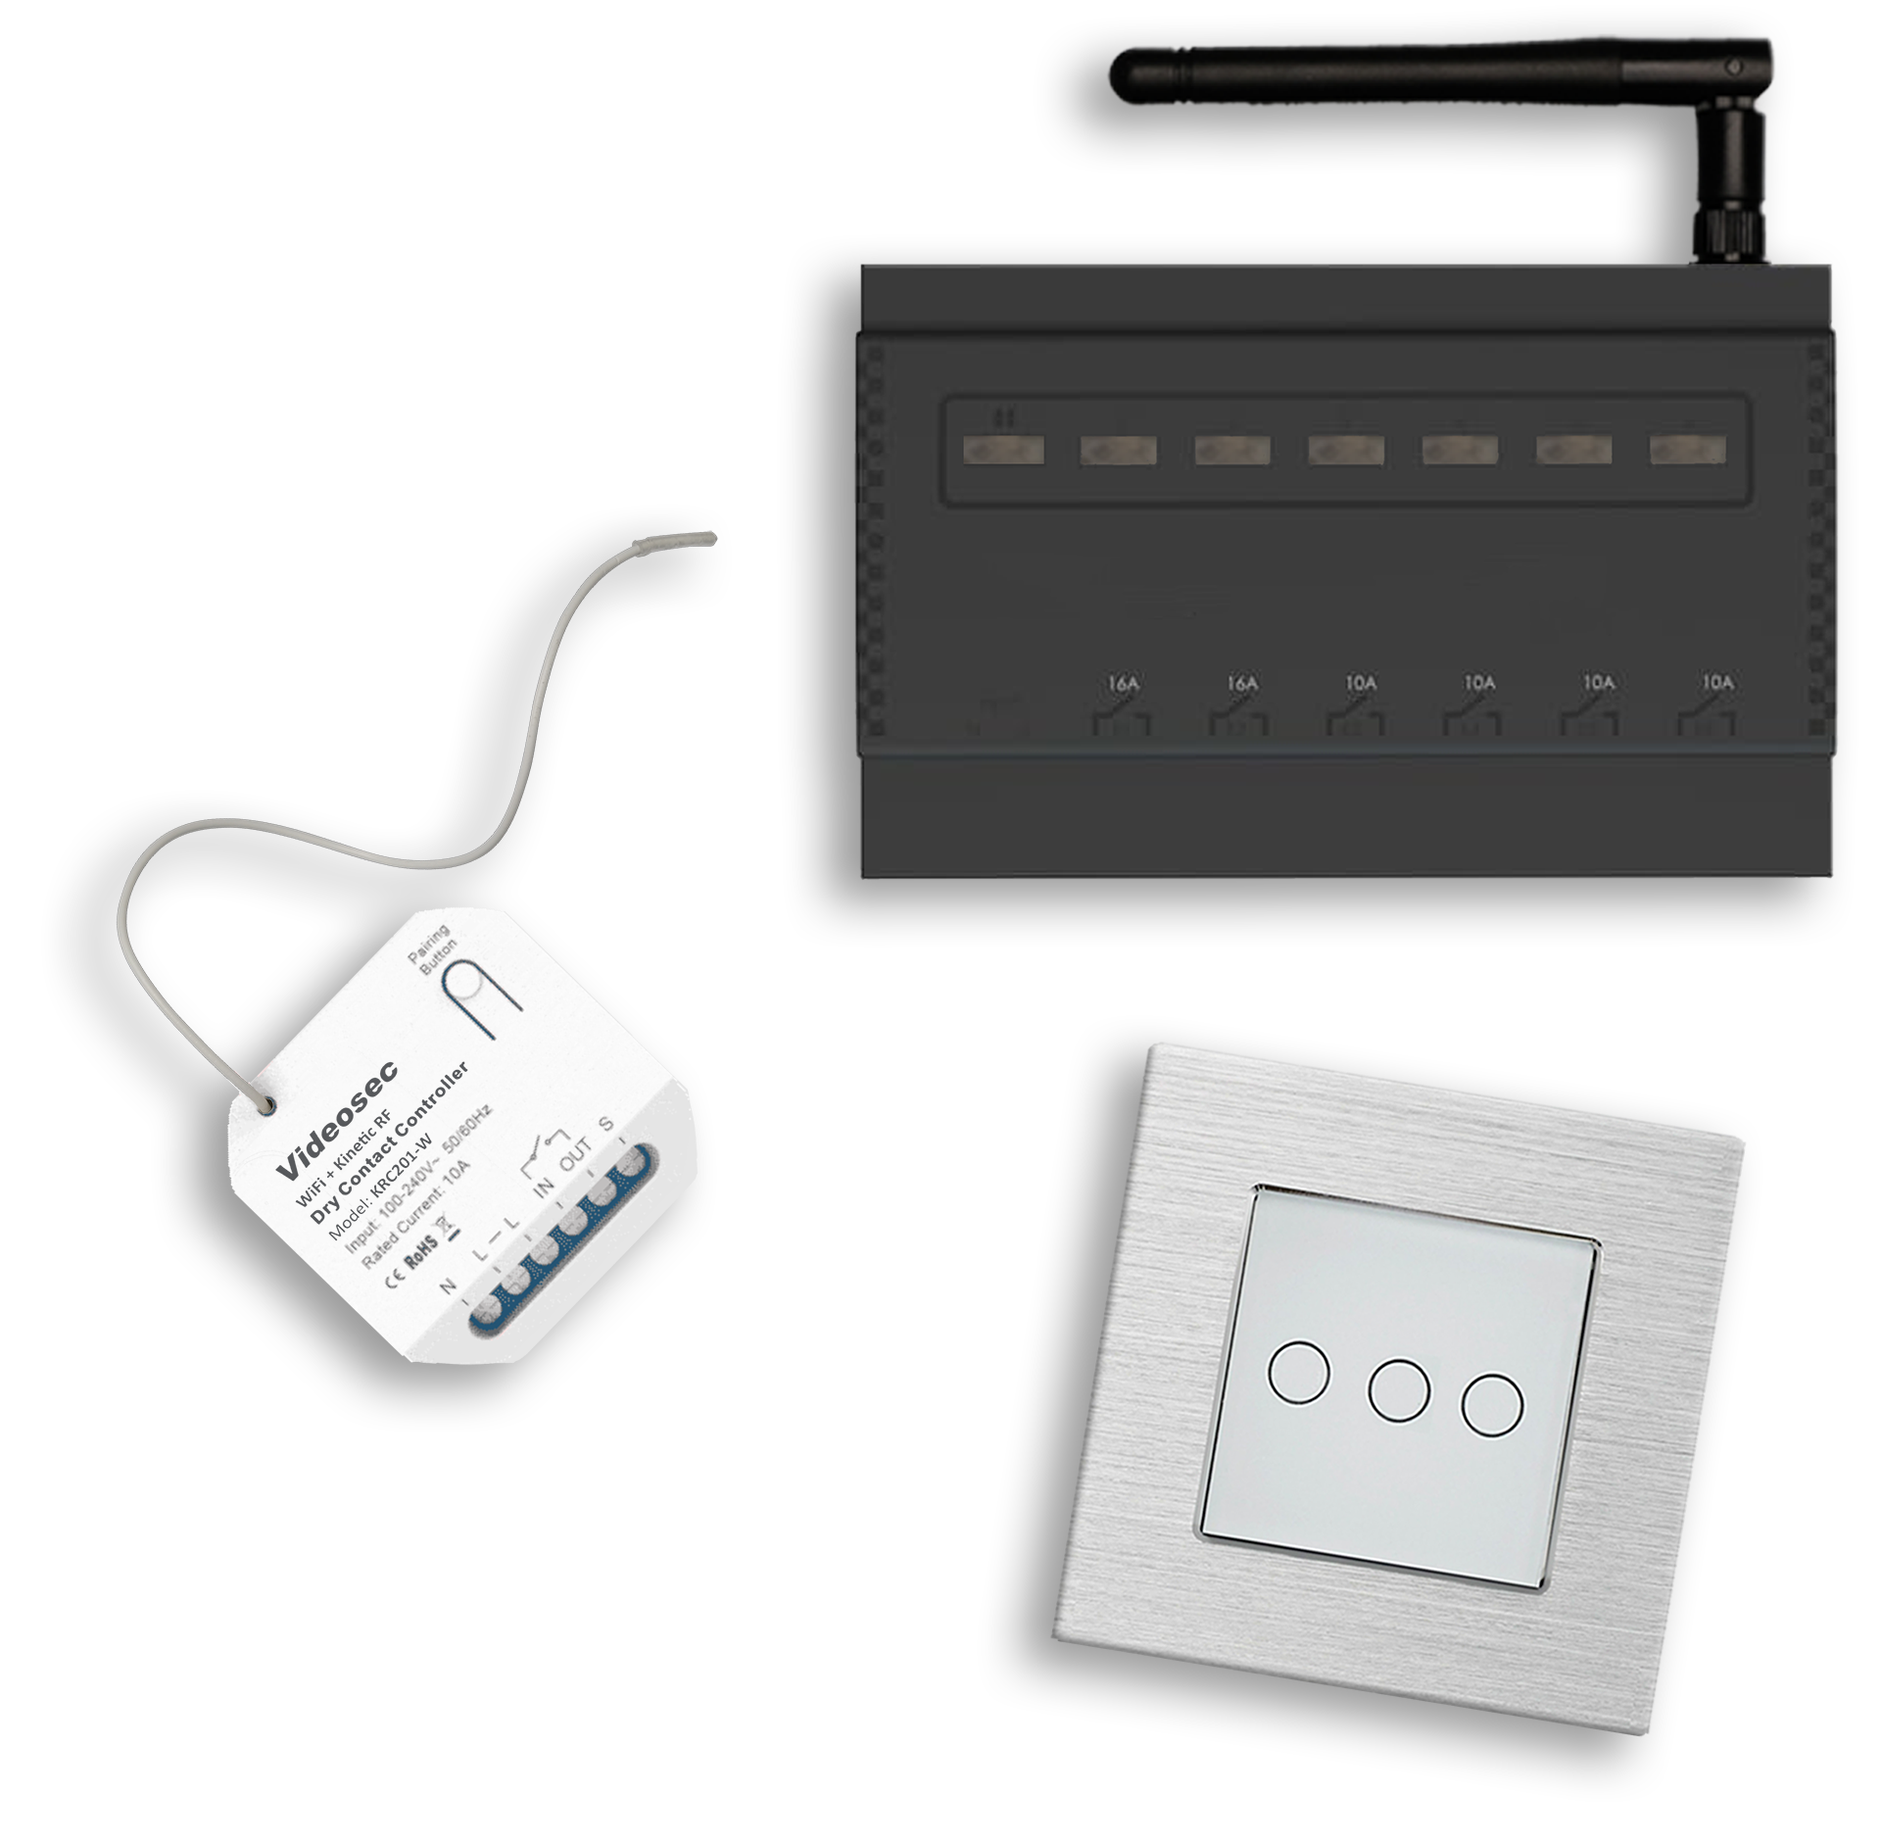
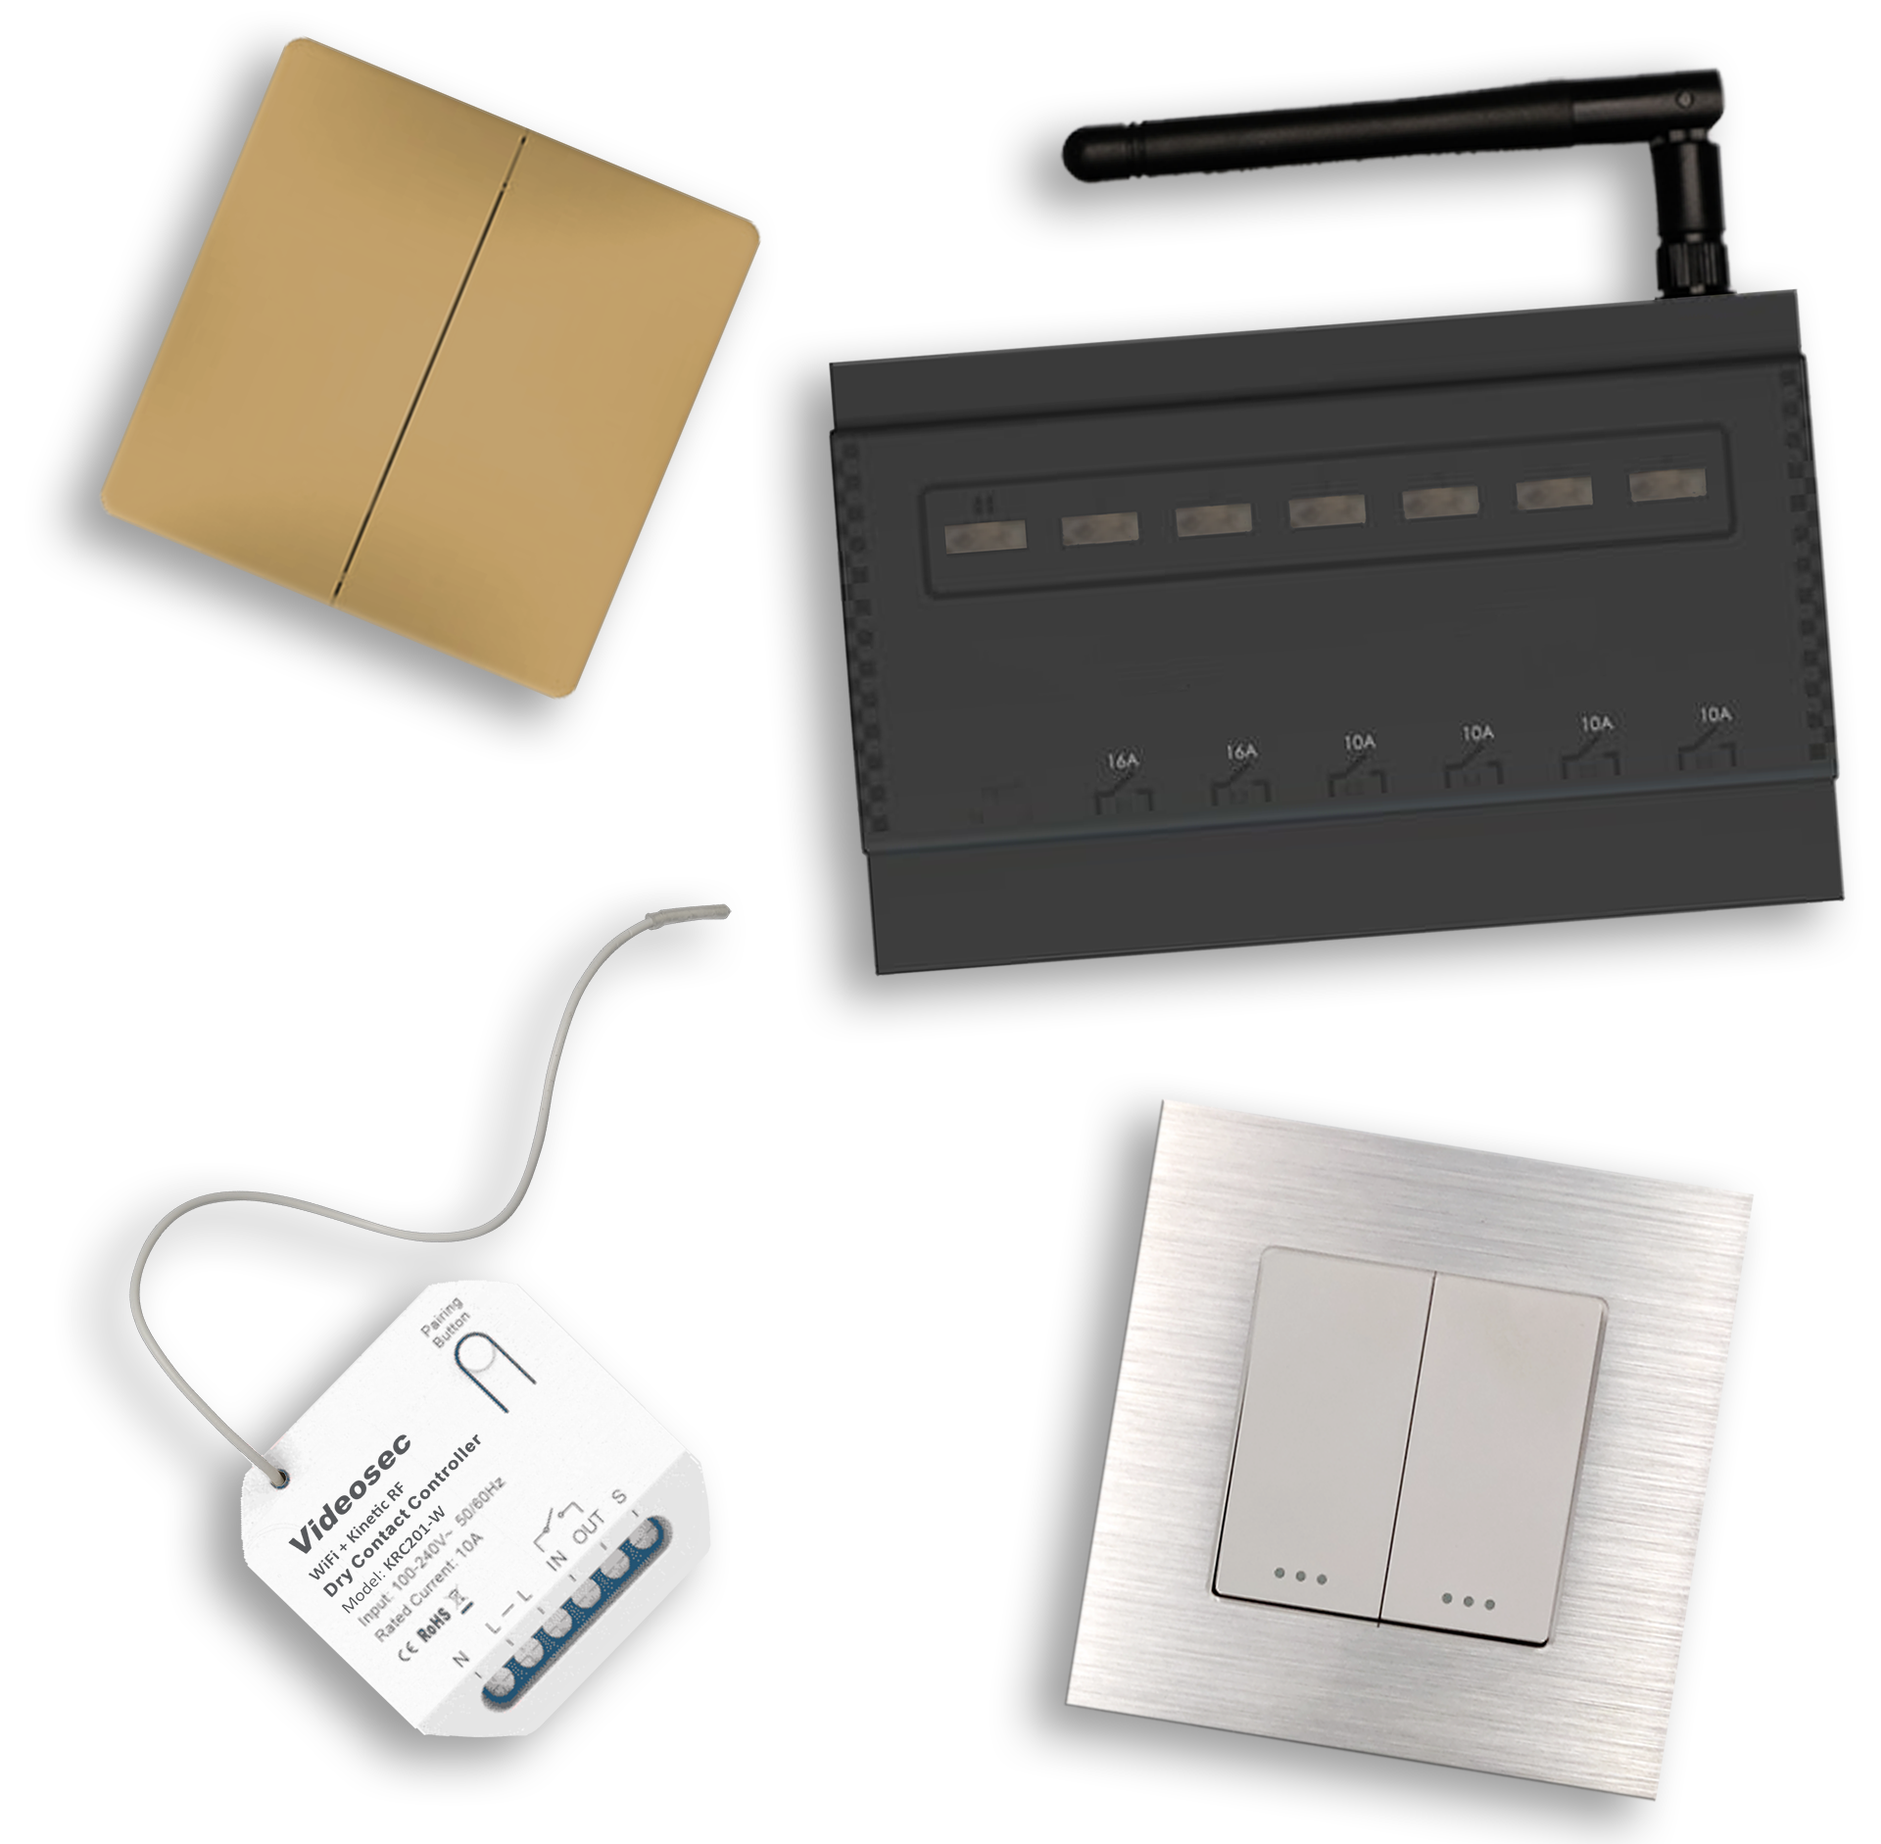
actuator chapter

diff --git a/index.html b/index.html
@@ -35,7 +35,7 @@
         <a href="#pelda5" onclick="closeNav()">Gázérzékelés</a>
         <a href="#pelda6" onclick="closeNav()">Biztonság</a>
         <a href="#pelda7" onclick="closeNav()">Kamera vezérlés</a>
-        <a href="#pelda8" onclick="closeNav()">beépített aktuátor</a>
+        <a href="#pelda8" onclick="closeNav()">Beépített aktuátor</a>
         <a href="#pelda9" onclick="closeNav()">Fagymentesítés</a>
         <p class="pt-5" style="font-size: 2vh; color: white;">Termékek:</p>
         <a href="#katalog" onclick="closeNav()">Legfrisebb termékeink</a>
@@ -60,21 +60,21 @@
         <a href="#m-pelda5" onclick="closeNav2()()">Gázérzékelés</a>
         <a href="#m-pelda6" onclick="closeNav2()()">Biztonság</a>
         <a href="#m-pelda7" onclick="closeNav2()()">Kamera vezérlés</a>
-        <a href="#m-pelda8" onclick="closeNav2()()">beépített aktuátor</a>
+        <a href="#m-pelda8" onclick="closeNav2()()">Beépített aktuátor</a>
         <a href="#m-pelda9" onclick="closeNav2()()">Fagymentesítés</a>
         <p class="pt-5" style="font-size: 2vh; color: white;">Termékek:</p>
         <a href="#m-katalog" onclick="closeNav2()()">Legfrisebb termékeink</a>
     </div>
     <div id="menu" class=" mt-2 mr-5">
-        <img id="zigbee-logo" style="width: 7vh; cursor: pointer;" class="mr-3" src="./resources/img/zigbee-logo.png" alt="zigbee-logo">
-        <img id="wifi-logo" style="width: 7vh; cursor: pointer;" class="mr-3" src="./resources/img/wifi-logo.png" alt="wifi-logo">
-        <img id="Tuya-logo" style="width: 7vh; cursor: pointer;" class="mr-3" src="./resources/img/Tuya mini logo.png" alt="Tuya-logo">
+        <a href="#wall"><img id="zigbee-logo" style="width: 7vh;" class="mr-3" src="./resources/img/zigbee-logo.png" alt="zigbee-logo"></a>
+        <a href="#wall"><img id="wifi-logo" style="width: 7vh;" class="mr-3" src="./resources/img/wifi-logo.png" alt="wifi-logo"></a>
+        <a href="#tuya"><img id="Tuya-logo" style="width: 7vh;" class="mr-3" src="./resources/img/Tuya mini logo.png" alt="Tuya-logo"></a>
         <img onclick="openNav()" style="width: 5vh; cursor: pointer;" src="./resources/img/menu.png" alt="menuicon">
     </div>
     <div id="menu2" class="  mt-2 mr-5">
-        <img id="zigbee-logo2" style="width: 7vh; cursor: pointer;" class="mr-3" src="./resources/img/zigbee-logo.png" alt="zigbee-logo">
-        <img id="wifi-logo2" style="width: 7vh; cursor: pointer;" class="mr-3" src="./resources/img/wifi-logo.png" alt="wifi-logo">
-        <img id="Tuya-logo2" style="width: 7vh; cursor: pointer;" class="mr-3" src="./resources/img/Tuya mini logo.png" alt="Tuya-logo">
+        <img id="zigbee-logo2" style="width: 7vh;" class="mr-3" src="./resources/img/zigbee-logo.png" alt="zigbee-logo">
+        <img id="wifi-logo2" style="width: 7vh;" class="mr-3" src="./resources/img/wifi-logo.png" alt="wifi-logo">
+        <img id="Tuya-logo2" style="width: 7vh; " class="mr-3" src="./resources/img/Tuya mini logo.png" alt="Tuya-logo">
         <img onclick="openNav2()" style="width: 5vh; cursor: pointer;" src="./resources/img/menu.png" alt="menuicon">
     </div>
 
@@ -398,8 +398,8 @@
                     <div class="row pt-5">
                         <div class="col-sm-11 h-auto m-auto">
                             <p class="text1 my-auto py-3">
-                                Okos eszközeink mindegyike egy, széles körben elterjedt Tuya applikációból elérhető és vezérelhető. Az akár magyarnyelvű felületen tudjuk akár pl. épület/helyiség bontásban logikailag csoportosítani őket. Eszközönként lekérdezhetőek az aktuális állapotuk
-                                és akár a környezetük állapota is, de szintén ezen a felületen keresztül vagyunk képesek automatizációkat létrehozni is.<br> Vezérlések működése: <br>
+                                Okos eszközeink mindegyike egy, széles körben elterjedt, Tuya applikációból elérhető és vezérelhető. Eszközeinket magyar nyelvű felületen is elérhetjük. Épületenkénti, helyiségenkénti bontásban saját logikai csoportokba rendezhetjük őket. Eszközönként lekérdezhető az aktuális állapot
+                                illetve a szenzorok környezetének állapota is, ugyanezen a felületen tudunk automatizációkat és jelenet parancsokat létrehozni.<br> Vezérlések működése: <br>
                             </p>
                         </div>
                         <div class="col-2 my-auto">
@@ -438,7 +438,7 @@
                         </div>
                         <div class="col-10 my-auto">
                             <p class="text1 my-auto py-3">
-                                Zigbee és WiFi hálózattal is működik
+                                Zigbee és WiFi hálózattal is működő eszközök is választhatóak
                             </p>
                         </div>
                     </div>
@@ -750,7 +750,7 @@
                     </div>
                     <div class=" col-10 mr-auto ">
                         <div class="container-fluid mr-0 text-center">
-                            <div class="row ">
+                            <div class="row align-items-center">
                                 <div class="col-3 avatar">
                                     <img src=" ./resources/img/gas2.png" class="w-100" alt="">
                                 </div>
@@ -815,7 +815,7 @@
                                     </ol>
                                     <div class="carousel-inner">
                                         <div class="carousel-item active">
-                                            <img class="d-block w-100" src="./resources/img/pelda8-1.jpg" alt="First slide gas sensor">
+                                            <img class="d-block w-100" src="./resources/img/pelda8-1.jpg" alt="First slide camera">
                                             <div class="carousel-caption d-none d-md-block">
                                                 <h4>
                                                     Kamera
@@ -823,7 +823,7 @@
                                             </div>
                                         </div>
                                         <div class="carousel-item">
-                                            <img class="d-block w-100" src="./resources/img/pelda8-2.jpg" alt="Second slide smoke detection">
+                                            <img class="d-block w-100" src="./resources/img/pelda8-2.jpg" alt="Second slide door opener">
                                             <div class="carousel-caption d-none d-md-block">
                                                 <h4>
                                                     Kapunyitás
@@ -855,13 +855,22 @@
                     </div>
                     <div class=" col-10 mr-auto ">
                         <div class="container-fluid mr-0 text-center">
-                            <div class="row ">
+                            <div class="row align-items-center">
                                 <div class="col-3 avatar">
-                                    <img src=" ./resources/img/gas2.png" class="w-100" alt="">
+                                    <img src=" ./resources/img/regular-switch.png" class="w-100" alt="">
                                 </div>
                                 <div class="col-9">
                                     <p class="text1">
-                                        <br> Tuyaval vezerelhető világítást szeretnénk kialakítani azonban meglévő villanykapcsolóinkat nem szeretnénk lecserélni, valamint a vezetékezést sem akarjuk módosítani.
+                                        Telefonról és automatizációkból vezérelhető világítást kell megvalósítanunk, de a mechanikus kapcsolók dizájnjához ragaszkodunk.</p>
+                                </div>
+                            </div>
+                            <div class="row align-items-center">
+                                <div class="col-3 avatar">
+                                    <img src=" ./resources/img/golden-dualswitch.png" class="w-100" alt="">
+                                </div>
+                                <div class="col-9">
+                                    <p class="text1">
+                                        Kinetikus kapcsolókkal bővíthető a kapcsolóhelyek száma, vezetékezés nékül, akár üveg, vagy fa felületeken is.
                                     </p>
                                 </div>
                             </div>
@@ -871,7 +880,7 @@
                                 </div>
                                 <div class="col-9">
                                     <p class="text1">
-                                        KRC-200-as sorozat aktuátorait be tudjuk építeni a villanykapcsolók mögötti kötődobozba. A meglévő kapcsolókat bele tudjuk kötni így a régi funkcionalitás nem veszik el azonban a világítást a Tuyan keresztül is képesek vagyunk vezérelni/követni.
+                                        A KRC200-as sorozat aktuátorai a villanykapcsoló mögötti kötődobozban elhelyezhetőek, vagy a megfelelő tartóval DIN sínre szerelhetőek. Az S-bemeneteket alkamzava mechanikus kapcsolókkal is kapcsolhatóak, miközben kinetikus kapcsolókkal és mobiltelefonról is kapcsolhatóak.
                                     </p>
                                 </div>
                             </div>
@@ -881,7 +890,7 @@
                                 </div>
                                 <div class="col-9">
                                     <p class="text1">
-                                        Mivel a KRC-200-as aktuátorok képesek külső jeleket kapni így világításon kívül bármilyen külső kapcsolási jelet integrálni a tuya rendszerébe. Ezzel a vezérlésbe és az automatizálásba is képesek külső eszközt hozzáadni.
+                                        A KRC200-as sorozat aktuátorainak S-bemenetével más rendszerek felől juttathatunk jelzéseket TUYA automatizációk felé.
                                     </p>
                                 </div>
                             </div>
@@ -1568,6 +1577,7 @@
                                         </li>
                                         <li data-target="#carousel10" data-slide-to="1" class=""></li>
                                         <li data-target="#carousel10" data-slide-to="2" class=""></li>
+                                        <li data-target="#carousel10" data-slide-to="3" class=""></li>
                                     </ol>
                                     <div class="carousel-inner">
                                         <div class="carousel-item active">
@@ -1587,7 +1597,15 @@
                                             </div>
                                         </div>
                                         <div class="carousel-item">
-                                            <img class="d-block w-100" src="./resources/img/pelda6-3.jpg" alt="Third slide thief tracking">
+                                            <img class="d-block w-100" src="./resources/img/pelda6-2.jpg" alt="Second slide lightswitch alarm">
+                                            <div class="carousel-caption d-none d-md-block">
+                                                <h4>
+                                                    Kinetikus kapcsoló
+                                                </h4>
+                                            </div>
+                                        </div>
+                                        <div class="carousel-item">
+                                            <img class="d-block w-100" src="./resources/img/pelda8-1.jpg" alt="Third slide Camera">
                                             <div class="carousel-caption d-none d-md-block">
                                                 <h4>
                                                     Rugalmasság
@@ -2066,7 +2084,7 @@
                     </div>
                     <div class="col-12">
                         <p class="m-text1">
-                            Okos eszközeink mindegyike egy, széles körben elterjedt Tuya applikációból elérhető és vezérelhető. Az akár magyarnyelvű felületen tudjuk akár pl. épület/helyiség bontásban logikailag csoportosítani őket. Eszközönként lekérdezhetőek az aktuális állapotuk
+                            Okos eszközeink mindegyike egy, széles körben elterjedt, Tuya applikációból elérhető és vezérelhető. Az akár magyarnyelvű felületen tudjuk akár pl. épület/helyiség bontásban logikailag csoportosítani őket. Eszközönként lekérdezhetőek az aktuális állapotuk
                             és akár a környezetük állapota is, de szintén ezen a felületen keresztül vagyunk képesek automatizációkat létrehozni is.<br> Vezérlések működése: <br>
                         </p>
                     </div>

diff --git a/resources/css/style.css b/resources/css/style.css
@@ -145,3 +145,8 @@ html {
     text-align: left;
     vertical-align: top
 }
+
+hr{
+    border: 2px solid white;
+    border-radius: 5px;
+}
